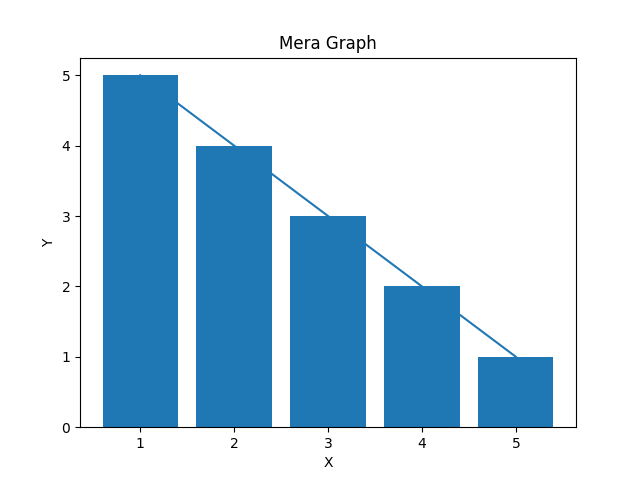
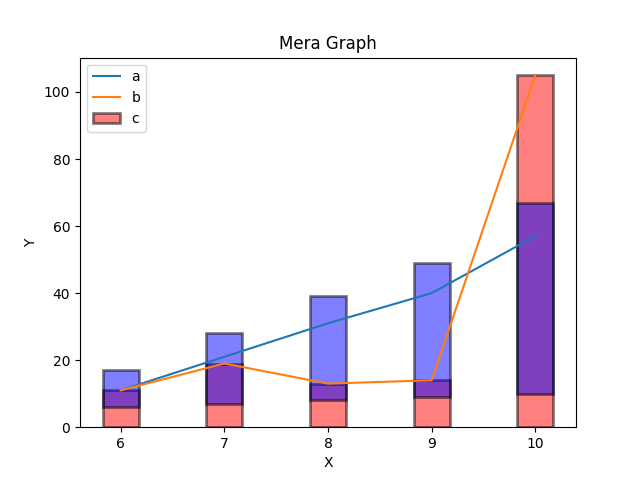
bar

diff --git a/BarG.py b/BarG.py
@@ -11,23 +11,5 @@ bar_width = 0.35
 plt.bar(categories, values1, color='orange', alpha=0.5, edgecolor='black', linewidth=2, width=bar_width)
 plt.bar(categories, values2, color='blue', alpha=0.5, edgecolor='black', linewidth=2, width=bar_width, bottom=values1)
 
-# Add error bars
-errors = [2, 1, 3, 2]
-plt.errorbar(categories, values1, yerr=errors, fmt='none', capsize=5)
-plt.errorbar(categories, values2, yerr=errors, fmt='none', capsize=5)
-
-# Add annotations
-for i, (v1, v2) in enumerate(zip(values1, values2)):
-    plt.text(i-bar_width/2, v1+1, str(v1), ha='center', fontweight='bold')
-    plt.text(i+bar_width/2, v2+1, str(v2), ha='center', fontweight='bold')
-
-# Add a legend
-plt.legend(['Sales 1', 'Sales 2', 'Error'])
-
-# Add titles and labels
-plt.title('Fruit Sales')
-plt.xlabel('Fruit')
-plt.ylabel('Number of Sales')
-
 # Display the plot
 plt.show()

diff --git a/new.py b/new.py
@@ -1,0 +1,23 @@
+import matplotlib.pyplot as plt
+from scipy import stats
+
+x = [1, 2, 3, 4, 5]
+# y = [7, 9, 11, 13, 15]
+# y=[-1,-2,-3,-4,-5]
+y = [3, 7, 8, 10, 0]
+slope, intercept, correlationcoefficient, p, slopeerror = stats.linregress(x, y)
+print("Slope=", slope, ", Intercept=", intercept, ", Correlation =", correlationcoefficient, ",p=", p, "slope error=",
+      slopeerror)
+def linefunc(x):
+    return slope * x + intercept
+model = list(map(linefunc, x))
+print(model)
+predictedx = 10
+predictedy = linefunc(predictedx)
+print(predictedx, predictedy)
+plt.scatter(x, y, color="red")
+plt.plot(x, model, color="blue")
+plt.title('Graph')
+plt.xlabel('X')
+plt.ylabel('Y')
+plt.show()

diff --git a/BarGraph.py b/BarGraph.py
@@ -1,11 +1,17 @@
 import matplotlib.pyplot as plt
 import numpy as num;
-a=[1,2,3,4,5]
-b=[5,4,3,2,1]
-plt.plot(a,b)
+a=[11,21,31,40,57]
+b=[6,7,8,9,10]
+c=[11,19,13,14,105]
 plt.title("Mera Graph")
 plt.xlabel("X")
 plt.ylabel("Y")
-plt.bar(a,b)
+bar_width = 0.35
+plt.plot(b,a)
+plt.plot(b,c)
+plt.bar(b,c,color='red', alpha=0.5, edgecolor='black', linewidth=2, width=bar_width)
+plt.bar(b,a,color='blue', alpha=0.5, edgecolor='black', linewidth=2, width=bar_width, bottom=b)
+
+plt.legend(['a','b','c'])
 plt.savefig("BarGraph.png")
 plt.show()
